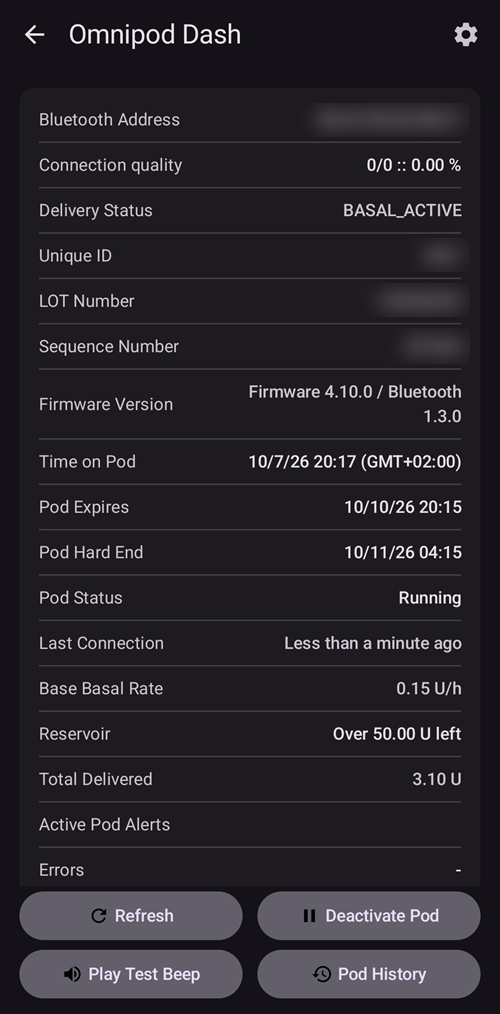
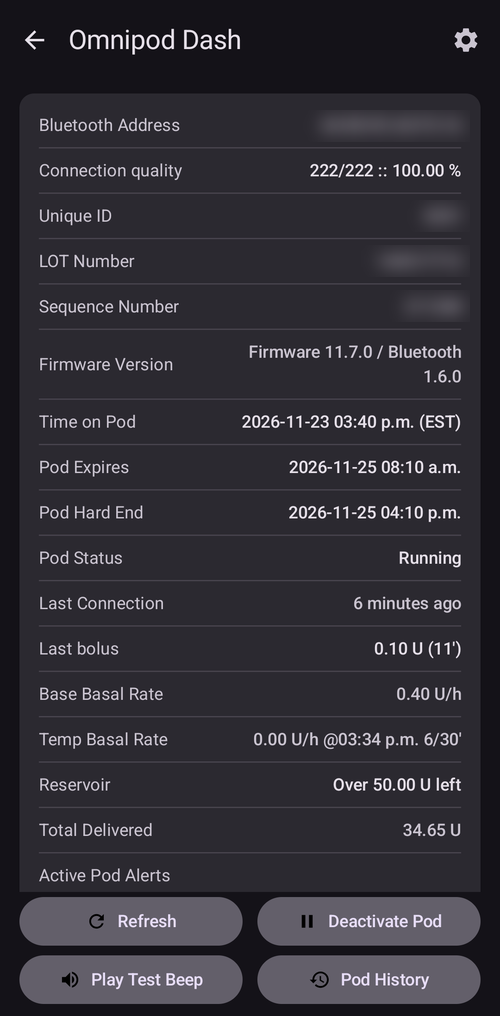
Update Dash screenshots
And remove admonition

diff --git a/docs/EN/CompatiblePumps/OmnipodDASH.md b/docs/EN/CompatiblePumps/OmnipodDASH.md
@@ -202,13 +202,6 @@ The buttons at the bottom of the pump screen change with the state of the pod. O
 
 - **Discard Pod:** Removes an unfinished pod from **AAPS**. Shown only when a pod activation stopped part-way. **AAPS** asks you to confirm. After discarding, **AAPS** can no longer communicate with that pod: remove it from your body.
 
-![The Pod Management menu](../images/DASH_images/DASH_Tab/DASH_Tab_3.png)
-
-```{admonition} Older screenshot
-:class: note
-The screenshot above is from an earlier **AAPS** version, which had a separate **Pod Management** menu. In **AAPS** 4 all these actions, including **Activate Pod**, **Deactivate Pod**, **Play Test Beep** and **Pod History**, are buttons with text labels directly on the pump screen.
-```
-
 (omnipod-dash-activate-pod)=
 
 ## Activate Pod
@@ -308,7 +301,7 @@ To deactivate a pod (either because it expired or because it failed):
 
 1. Open the DASH pump screen (**Manage** > **Pump**) and press **Deactivate Pod**.
 
-   ![The Deactivate Pod button on the DASH pump screen](../images/DASH_images/Activate_Pod/Activate_Pod_15.jpg)
+   ![The Deactivate Pod button on the DASH pump screen](../images/DASH_images/DASH_Tab/DASH_Tab_1.png)
 
 2. On the **Deactivate Pod** step, press **Next**. A dialog asks *A deactivated Pod can not be used again. Deactivate this Pod now?* Press **OK** to start deactivating the pod, or **Cancel** to keep it. Deactivation suspends all insulin delivery and cannot be undone.
 
